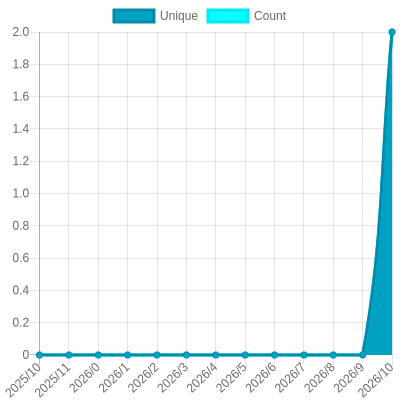
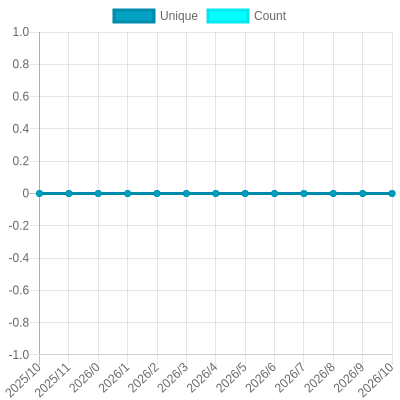
Update views

diff --git a/README.md b/README.md
@@ -26,13 +26,13 @@ The project created and maintained by [gayanvoice](https://github.com/gayanvoice
 			</a>
 		</td>
 		<td>
-			2025/11/11 6:53 PM UTC
+			2025/11/12 3:30 AM UTC
 		</td>
 		<td>
-			2
+			0
 		</td>
 		<td>
-			<img alt="Response time graph" src="https://github.com/yy-Hu-xjtu/my-views-counter/raw/master/graph/1084707163/small/year.png" height="20"> 2
+			<img alt="Response time graph" src="https://github.com/yy-Hu-xjtu/my-views-counter/raw/master/graph/1084707163/small/year.png" height="20"> 0
 		</td>
 	</tr>
 	<tr>
@@ -42,7 +42,7 @@ The project created and maintained by [gayanvoice](https://github.com/gayanvoice
 			</a>
 		</td>
 		<td>
-			2025/11/11 6:53 PM UTC
+			2025/11/12 3:30 AM UTC
 		</td>
 		<td>
 			2
@@ -53,7 +53,7 @@ The project created and maintained by [gayanvoice](https://github.com/gayanvoice
 	</tr>
 </table>
 
-<small><i>Last updated on 2025/11/14 6:53 PM UTC</i></small>
+<small><i>Last updated on 2025/11/15 3:30 AM UTC</i></small>
 
 ## ✂Copy and 📋 Paste
 ### Total Views Badge

diff --git a/readme/1084707163/year.md b/readme/1084707163/year.md
@@ -23,10 +23,10 @@
 			<code>2025/11/1</code>
 		</td>
 		<td>
-			<code>2</code>
+			<code>0</code>
 		</td>
 		<td>
-			<code>2</code>
+			<code>0</code>
 		</td>
 	</tr>
 	<tr>
@@ -164,7 +164,7 @@
 </table>
 
 </details>
-<small><i>Last updated on 2025/11/14 6:53 PM UTC</i></small>
+<small><i>Last updated on 2025/11/15 3:30 AM UTC</i></small>
 
 ## ✂Copy and 📋 Paste
 ### SVG Badge

diff --git a/readme/1084704624/year.md b/readme/1084704624/year.md
@@ -164,7 +164,7 @@
 </table>
 
 </details>
-<small><i>Last updated on 2025/11/14 6:53 PM UTC</i></small>
+<small><i>Last updated on 2025/11/15 3:30 AM UTC</i></small>
 
 ## ✂Copy and 📋 Paste
 ### SVG Badge
